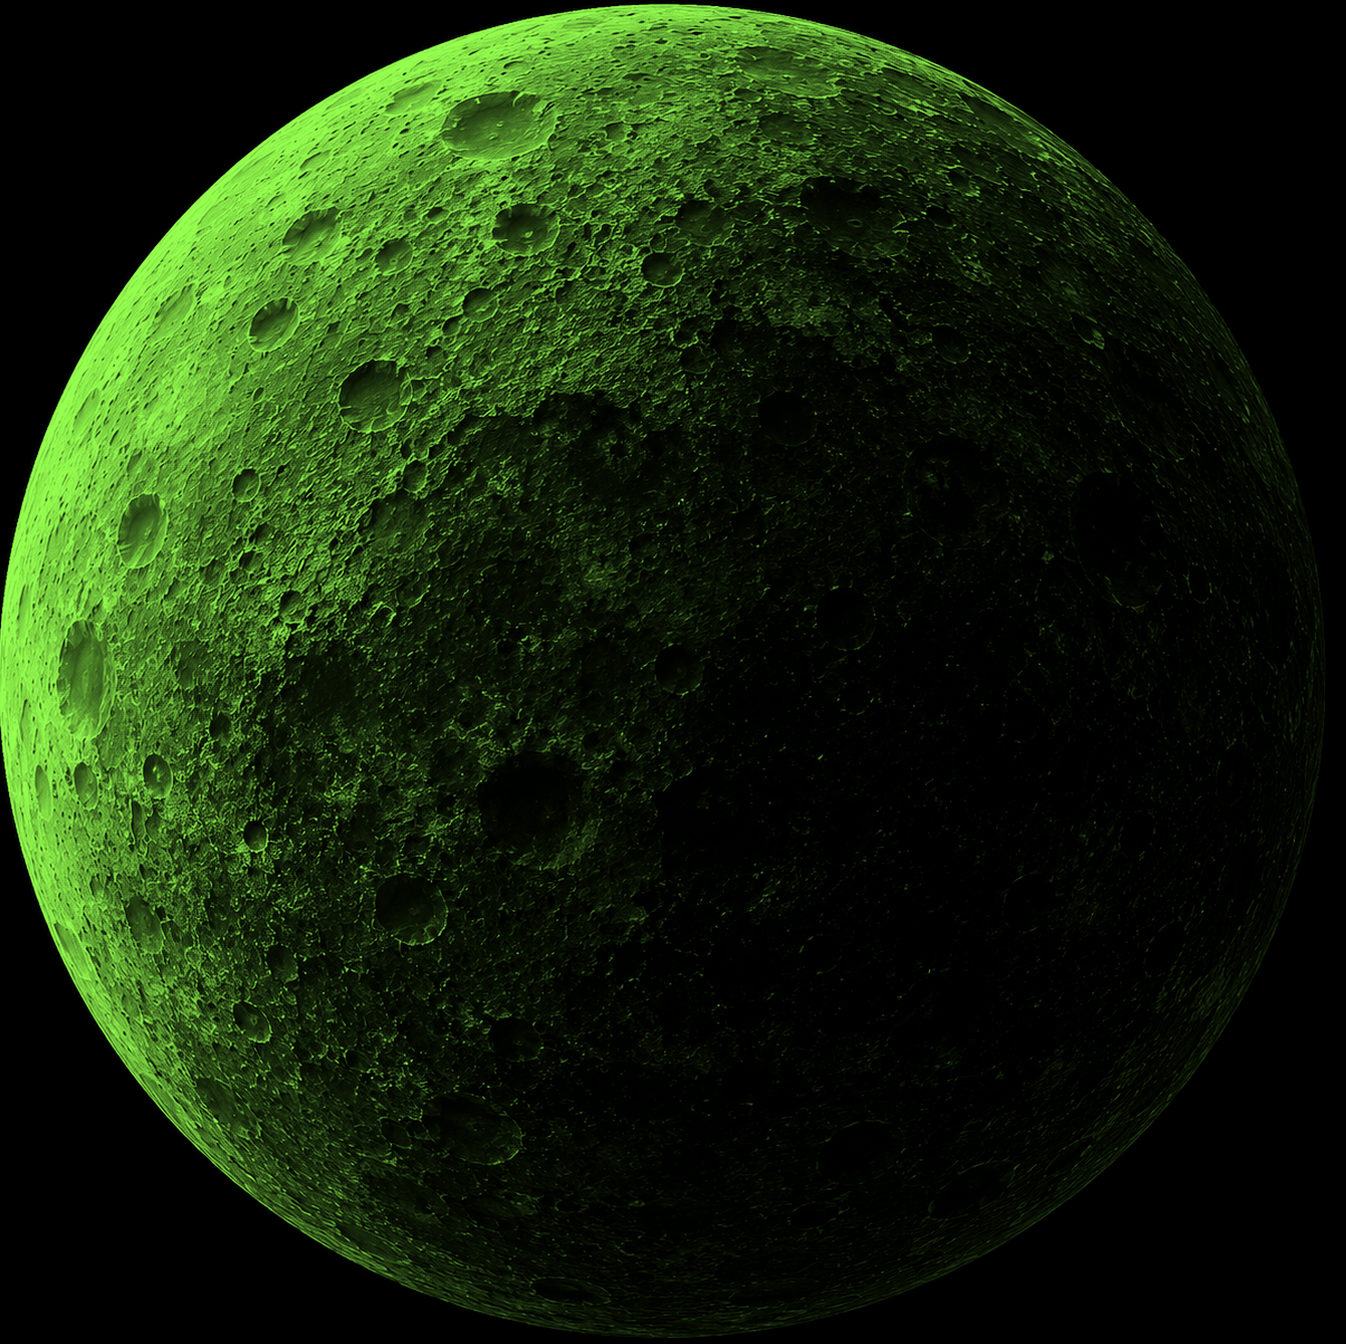
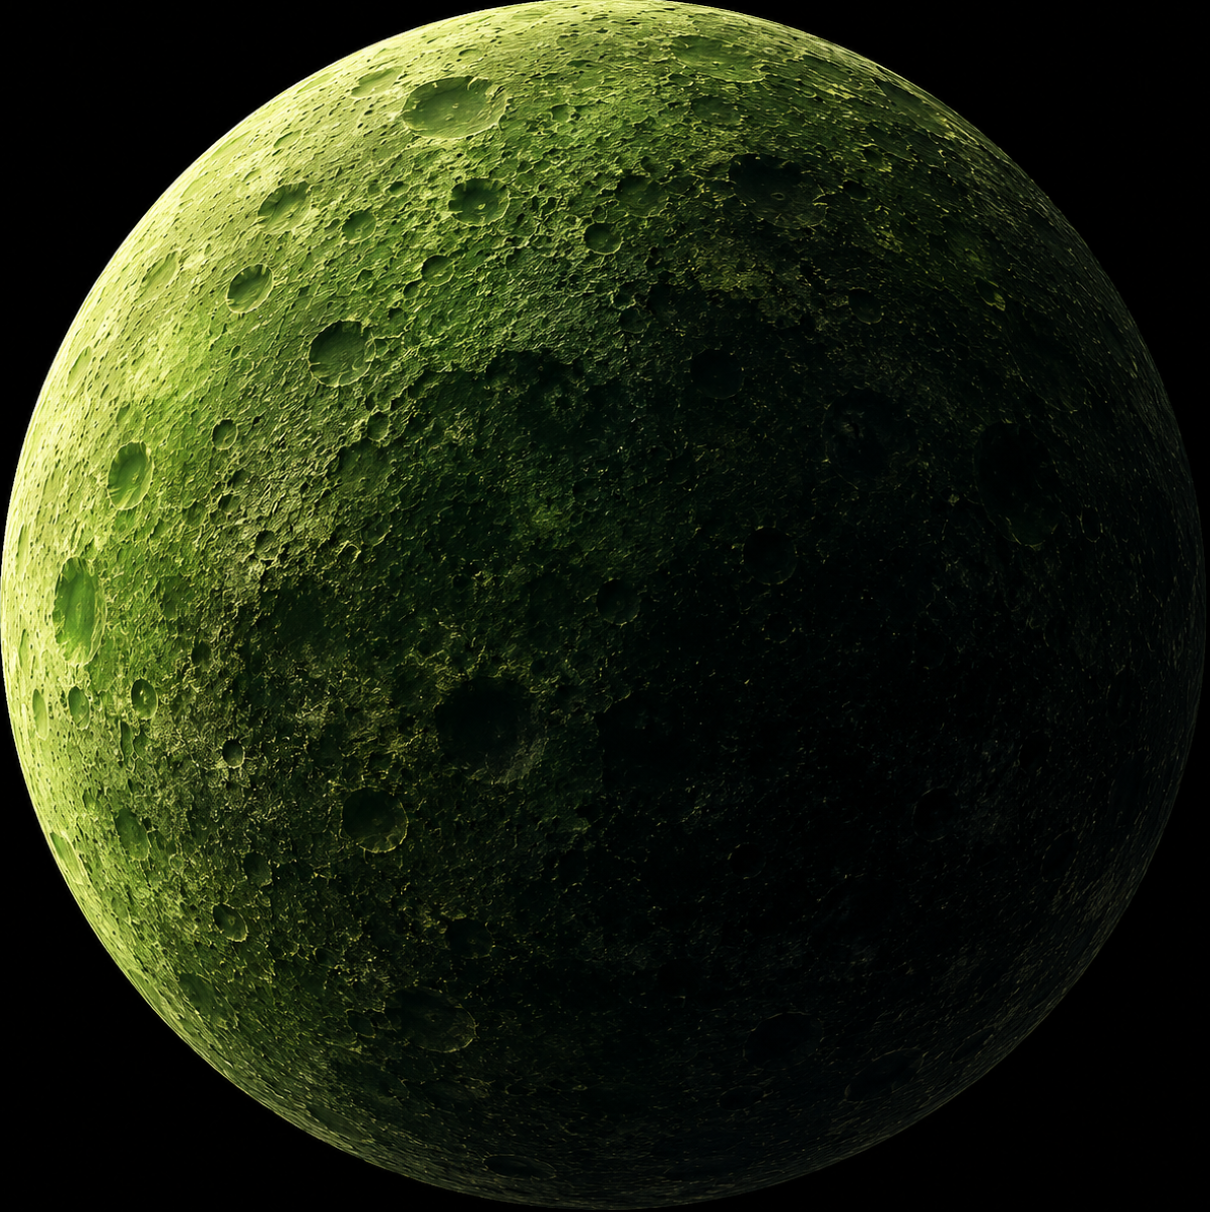
Add files via upload

diff --git a/js/app.js b/js/app.js
@@ -290,20 +290,25 @@ async function createUserRecord({ name, email, password }) {
 
 function finishLogin(user) {
   loggedIn = true;
+
   saveCurrentUser(user);
+
   clearFocusStates();
+
   account.classList.remove("focus", "dim");
   account.classList.add("far");
+
   home.classList.add("explode");
+
+  account.dataset.motionStatus = "1";
+  startWrapMotion(account, 84, 18);
+
   setTimeout(createDownloadUpload, 900);
 }
 
 account.addEventListener("mouseenter", () => focusBubble("account"));
 account.addEventListener("click", () => focusBubble("account"));
-search.addEventListener("mouseenter", () => {
-  if (!loggedIn) return;
-  focusBubble("search");
-});
+
 
 showLogin.addEventListener("click", event => {
   event.stopPropagation();
@@ -554,7 +559,7 @@ function createCategoryBubble(categoryId) {
   const el = document.createElement("div");
   el.className = `app-bubble category ${categoryId}`;
   el.dataset.kind = categoryId;
-  el.dataset.motionStatus = "1";
+  el.dataset.motionStatus = "0";
   renderCategoryBubble(el, categoryId);
 
   const fallbackPositions = {
@@ -704,7 +709,6 @@ function preparePlanetBubble(el, finalX, finalY, size) {
   el.style.setProperty("--float-y", "0px");
   el.style.setProperty("--float-time", "1s");
 
-  el.addEventListener("mouseenter", () => { if (!productModalOpen || el.classList.contains("app-detail")) focusBubble(el.dataset.kind); });
   el.addEventListener("click", () => { if (!productModalOpen || el.classList.contains("app-detail")) focusBubble(el.dataset.kind); });
 
   document.querySelector(".space").appendChild(el);
@@ -729,8 +733,8 @@ function startWrapMotion(el, startX, startY) {
   // Snelheid in schermpercentage per seconde.
   // Status 1 = klein en rustiger. Status 2 = middelklein en duidelijker zichtbaar.
   const speed = motionStatus === 1
-    ? randomBetween(1.2, 2.2)
-  : randomBetween(0.6, 1.2);
+ ? randomBetween(1.0, 1.8)
+  : randomBetween(1.8, 3.0);
 
   const angle = randomBetween(0, Math.PI * 2);
   const vx = Math.cos(angle) * speed;
@@ -763,11 +767,28 @@ function startWrapMotion(el, startX, startY) {
 
     // Wrap-around: links eruit = rechts terug, rechts eruit = links terug,
     // boven eruit = onder terug, onder eruit = boven terug.
-    const margin = 12;
-    if (motion.x < -margin) motion.x = 100 + margin;
-    if (motion.x > 100 + margin) motion.x = -margin;
-    if (motion.y < -margin) motion.y = 100 + margin;
-    if (motion.y > 100 + margin) motion.y = -margin;
+    const margin = 8;
+
+
+if (motion.x < margin) {
+  motion.x = margin;
+  motion.vx *= -1;
+}
+
+if (motion.x > 100 - margin) {
+  motion.x = 100 - margin;
+  motion.vx *= -1;
+}
+
+if (motion.y < margin) {
+  motion.y = margin;
+  motion.vy *= -1;
+}
+
+if (motion.y > 100 - margin) {
+  motion.y = 100 - margin;
+  motion.vy *= -1;
+}
 
     el.style.setProperty("--x", `${motion.x}%`);
     el.style.setProperty("--y", `${motion.y}%`);
@@ -838,5 +859,6 @@ exportUsersJson.addEventListener("click", event => {
   a.click();
   URL.revokeObjectURL(url);
 });
+
 
 startLayout();

diff --git a/css/product.css b/css/product.css
@@ -44,7 +44,7 @@ body.product-modal-open::after {
 
   box-shadow:
     inset 46px 36px 100px rgba(207,255,176,.13),
-    inset -105px -120px 190px rgba(0,0,0,.86),
+    inset -60px -60px 120px rgba(0,0,0,.45)
     0 0 24px rgba(145,255,111,.36),
     0 0 78px rgba(70,255,110,.24),
     0 58px 140px rgba(0,0,0,.58);
@@ -58,12 +58,12 @@ body.product-modal-open::after {
   border-radius: 50%;
   pointer-events: none;
 
-  background-image: var(--planet-image, url("../assets/images/planet-utilities.png"));
+  background-image: var(--planet-image, url("../assets/images/planet-product.png"));
   background-size: cover;
   background-position: center;
 
   opacity: .98;
-  filter: saturate(1.18) contrast(1.05) brightness(.92);
+  filter: saturate(1.10) contrast(1.00) brightness(1.15);
 }
 
 .app-bubble.app-detail::after {
